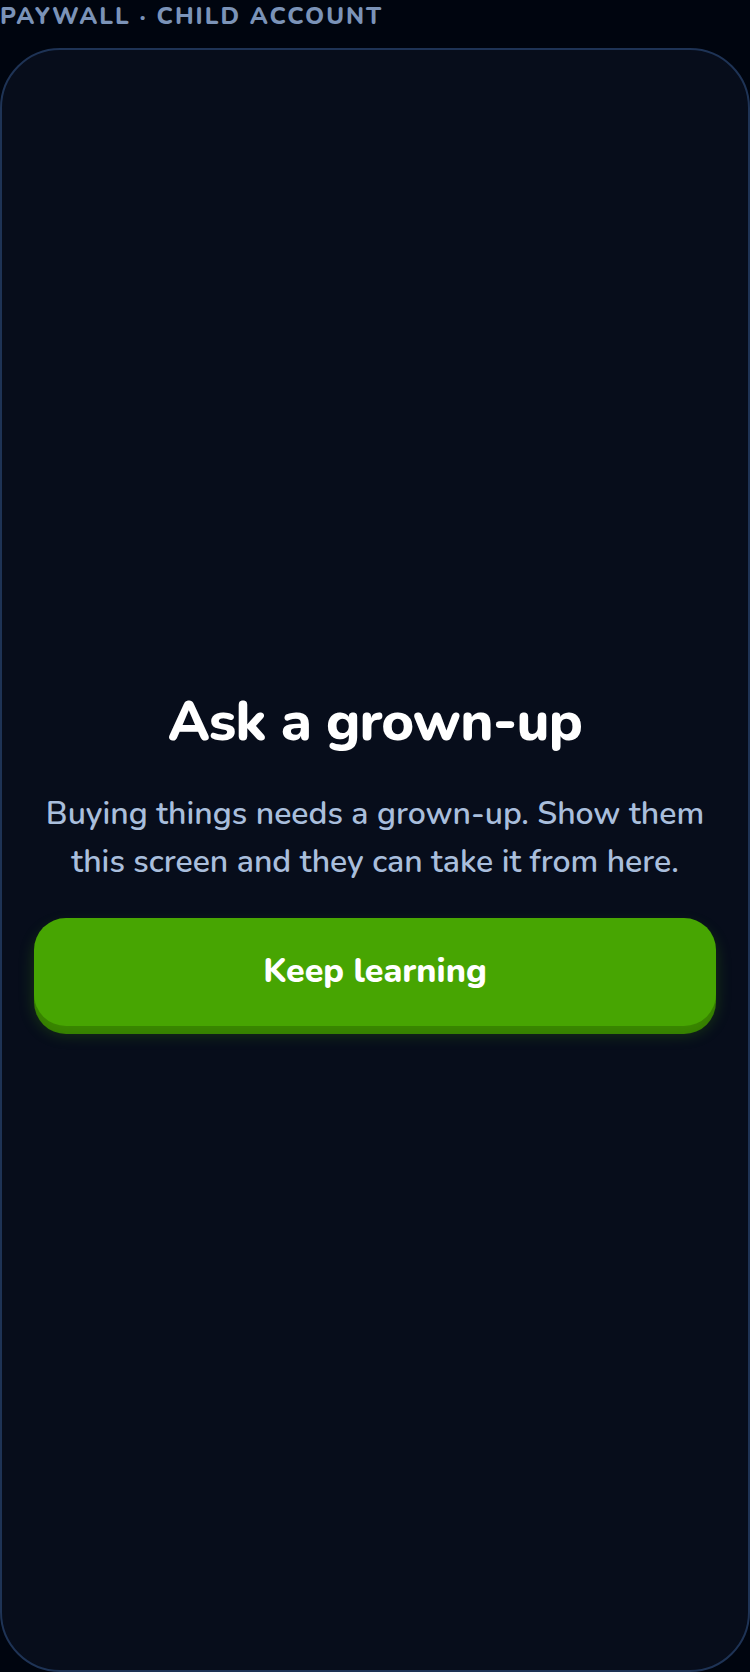
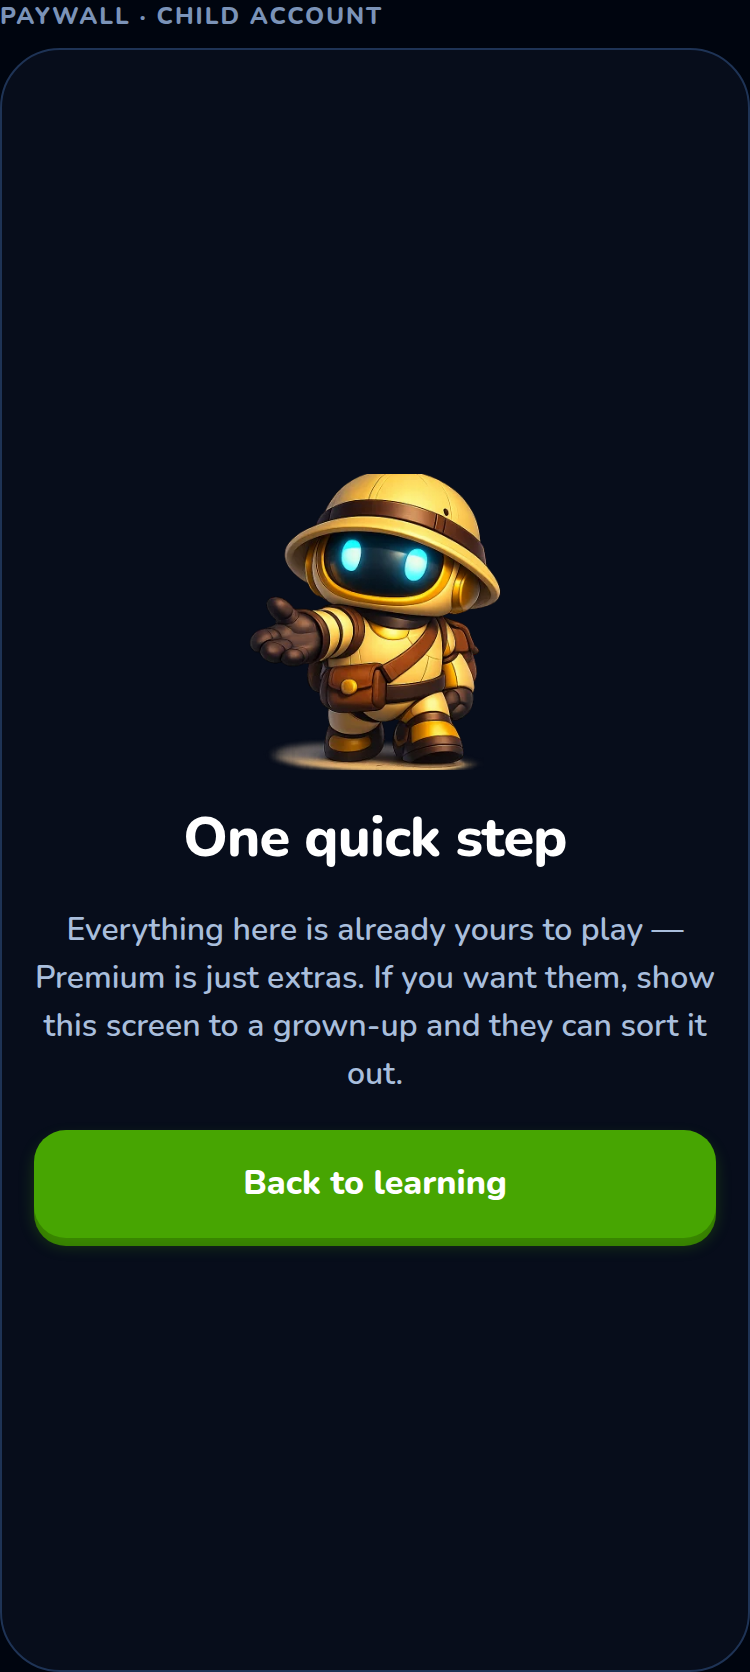
feat(paywall): value beside the price, and a gate that reads as a step not a wall
**The parental gate stays, and stops sounding like a refusal.** It was "Ask a
grown-up" over two centred paragraphs of system text, which reads to a child like
a locked door. It is not one: an under-13 account plays everything, unlimited,
forever — the gate replaces only the purchase screen, because Apple requires a
parental gate before a purchase CTA aimed at a child and PROJECT.md rule 7 wants
one anyway.

So it now leads with what the child already has ("Everything here is already
yours to play — Premium is just extras"), the heading is "One quick step", the
button points at what they came for, and Atlas is on it. He is normally kept out
of paywalls by voice-and-tone.md; this page has no price, nothing to buy and
nothing being asked for, which is exactly his encouraging register.

**The plans page had the number and none of the value on it.** The four perks
lived on page 2, so the one screen where a person decides was pure typography.
They are now beside the price — the same `paywall:perk.*` strings, one list, so
the pages cannot come to disagree about what is being bought. The saving badge is
a filled pill rather than a fourth line of green text: it is the most persuasive
thing on the screen and it was rendering as the least.

A "Best value" ribbon was built above the yearly card and removed after looking at
it — clipped by the card's own corner radius, and saying a vaguer version of what
"Save 46%" already says.
[…]

Changed region(s): [[0.0307, 0.2799, 0.9813, 0.7464]]

diff --git a/apps/mobile/src/features/paywall/PaywallScreen.tsx b/apps/mobile/src/features/paywall/PaywallScreen.tsx
@@ -125,6 +125,23 @@ const STATE_ART = 88
 /** Same as the lesson summary's, so the two screens read as one moment. */
 const FLAG_WIDTH = 56
 
+/**
+ * Atlas on the parental gate.
+ *
+ * `voice-and-tone.md` keeps him out of paywalls, and the gate is not one: there is no
+ * price on it, nothing to buy and nothing being asked for. It is a child being told that
+ * what they already have is theirs, which is the encouraging register he exists for.
+ * Without him the screen was three centred paragraphs of system text — which is what a
+ * refusal looks like, and the screen is not a refusal.
+ */
+const GATE_ART = 148
+
+/**
+ * What Premium includes, listed on the page that has the price on it.
+ *
+ * The same four strings page 2 shows. One list rather than two, so the pages cannot come
+ * to disagree about what somebody is buying.
+ */
 const PERKS = [
   'paywall:perk.hearts',
   'paywall:perk.offline',
@@ -342,6 +359,16 @@ export function PaywallScreen({
                 label={t('paywall:plan.annual')}
                 perMonth={t('paywall:plan.perMonth', { price: annual.pricePerMonth })}
                 total={t('paywall:plan.billedYearly', { price: annual.price })}
+                // Two badges, and both are FACTS rather than persuasion. The saving is
+                // computed from the store's own `amountMicros`; "Best value" is true of
+                // whichever plan costs less per month. Deliberately not "Most popular" —
+                // this app has no purchase data and inventing some is the line between
+                // a sell and a lie.
+                // ONE badge, and the concrete one. A "Best value" ribbon was tried above
+                // the card and was clipped by its own corner radius — and it was saying a
+                // vaguer version of what the saving already says. "Save 46%" is computed
+                // from the store's `amountMicros`; it is a fact, and it is the fact that
+                // moves somebody to the yearly plan.
                 badge={saving === null ? undefined : t('paywall:plan.save', { percent: saving })}
                 selected={selected === 'annual'}
                 onSelect={() => setSelected('annual')}
@@ -355,6 +382,23 @@ export function PaywallScreen({
                 onSelect={() => setSelected('monthly')}
               />
             )}
+
+            {/* What the price BUYS, next to the price.
+                The four perks lived on page 2 and the plans page was pure typography, so
+                the one screen where a person decides had the number and none of the
+                value on it. Nothing new is claimed: the same `paywall:perk.*` strings,
+                moved to where the decision happens. */}
+            <Text style={styles.includesTitle}>{t('paywall:plans.includes')}</Text>
+            <View style={styles.includes}>
+              {PERKS.map((perk) => (
+                <View key={perk} style={styles.includesRow}>
+                  <Text style={styles.includesTick} aria-hidden importantForAccessibility="no-hide-descendants">
+                    ✓
+                  </Text>
+                  <Text style={styles.includesText}>{t(perk)}</Text>
+                </View>
+              ))}
+            </View>
 
             {/* Terms above the button, in words, not behind a link. Both stores require
                 the price and the renewal to be legible before the tap; so does anyone
@@ -454,6 +498,13 @@ function ParentalGate({ onContinue }: { onContinue: () => void }) {
 
   return (
     <View style={[styles.screen, styles.centred]}>
+      {/* Atlas, on the one paywall page he is allowed on.
+          `voice-and-tone.md` keeps him out of paywalls, and this is not one: there is no
+          price on it, nothing to buy, and nothing being asked for. It is a child being
+          told that what they already have is theirs — which is exactly the encouraging
+          register he exists for. Without him this was three centred paragraphs of system
+          text, which is what a refusal looks like. */}
+      <Art name="atlas/encouraging" size={GATE_ART} />
       <Text style={styles.title} role="heading" aria-level={1}>
         {t('paywall:adult.title')}
       </Text>
@@ -475,6 +526,7 @@ function PlanCard({
   perMonth: string
   total?: string | undefined
   badge?: string | undefined
+  /** Marks the cheaper-per-month plan. A fact about the prices, not a popularity claim. */
   selected: boolean
   onSelect: () => void
 }) {
@@ -513,6 +565,12 @@ function PlanCard({
 
 const styles = StyleSheet.create({
   screen: { flex: 1, padding: space[4], gap: space[4] },
+  includesTitle: { ...text('overline'), color: colors.text.tertiary, textAlign: 'center' },
+  includes: { alignSelf: 'center', gap: space[2] },
+  includesRow: { flexDirection: 'row', alignItems: 'center', gap: space[2] },
+  includesTick: { ...text('body', { weight: '700' }), color: colors.action.primary },
+  includesText: { ...text('body'), color: colors.text.secondary },
+
   centred: { alignItems: 'center', justifyContent: 'center' },
   scroll: { flex: 1 },
   body: { flexGrow: 1, gap: space[4] },
@@ -542,7 +600,23 @@ const styles = StyleSheet.create({
   planOn: { borderColor: colors.action.primary },
   planTop: { flexDirection: 'row', alignItems: 'center', justifyContent: 'space-between' },
   planLabel: { ...text('bodyStrong'), color: colors.text.primary },
-  badge: { ...text('caption'), color: colors.status.progress },
+  /**
+   * A filled pill, not green text.
+   *
+   * The saving is the single most persuasive thing on this screen and it was rendering
+   * as one more line of coloured type among four. A pill gives it a shape the eye finds
+   * before it reads anything, which is the whole job of a badge — and it is the only
+   * emphasis on the page that is not also a claim.
+   */
+  badge: {
+    ...text('caption', { weight: '700' }),
+    color: colors.text.onAccent,
+    backgroundColor: colors.action.primary,
+    paddingHorizontal: space[2],
+    paddingVertical: space[1],
+    borderRadius: radius.full,
+    overflow: 'hidden',
+  },
   planPrice: { ...text('h2', { numeric: true }), color: colors.text.primary },
   planTotal: { ...text('caption'), color: colors.text.secondary },
 

diff --git a/apps/mobile/src/features/paywall/PaywallScreen.test.tsx b/apps/mobile/src/features/paywall/PaywallScreen.test.tsx
@@ -54,7 +54,10 @@ describe('Paywall — the rules that cost money to break', () => {
     // Apple requires commerce behind a parental gate for under-13s, and a ten-year-old
     // has no card anyway — a paywall aimed at them earns nothing and costs the listing.
     const { container } = paywall({ isChild: true })
-    expect(screen.getByRole('heading').textContent).toBe('Ask a grown-up')
+    // "One quick step", not "Ask a grown-up". The gate stays — Apple requires it before a
+    // purchase CTA aimed at a child, and rule 7 wants it too — but it now leads with what
+    // the child already has rather than with what they must go and ask for.
+    expect(screen.getByRole('heading').textContent).toBe('One quick step')
     expect(container.textContent).not.toMatch(/€|\$|month|year|trial/i)
     expect(screen.queryByTestId('paywall-buy')).toBeNull()
   })
@@ -63,7 +66,7 @@ describe('Paywall — the rules that cost money to break', () => {
     // The honest message and the required one are the same message here: every lesson
     // is free, so pressing this costs them nothing.
     const { onDismiss } = paywall({ isChild: true })
-    fireEvent.click(screen.getByRole('button', { name: 'Keep learning' }))
+    fireEvent.click(screen.getByRole('button', { name: 'Back to learning' }))
     expect(onDismiss).toHaveBeenCalledOnce()
   })
 
@@ -89,7 +92,11 @@ describe('Paywall — the rules that cost money to break', () => {
     const { container } = paywall()
     toPlans()
     expect(container.textContent).not.toMatch(
-      /hurry|limited|expires|only \d+ (left|spots)|last chance|ends (soon|in)/i,
+      // Word boundaries, and they are load-bearing. Without them this fired on
+      // "**Un**limited hearts" — a PERK, and one of the four now listed beside the price.
+      // A guard that cannot tell "limited time" from "unlimited" fails on the screen
+      // getting better, which is how a good check gets deleted.
+      /\bhurry\b|\blimited\b|\bexpires\b|only \d+ (left|spots)|last chance|ends (soon|in)/i,
     )
   })
 })
